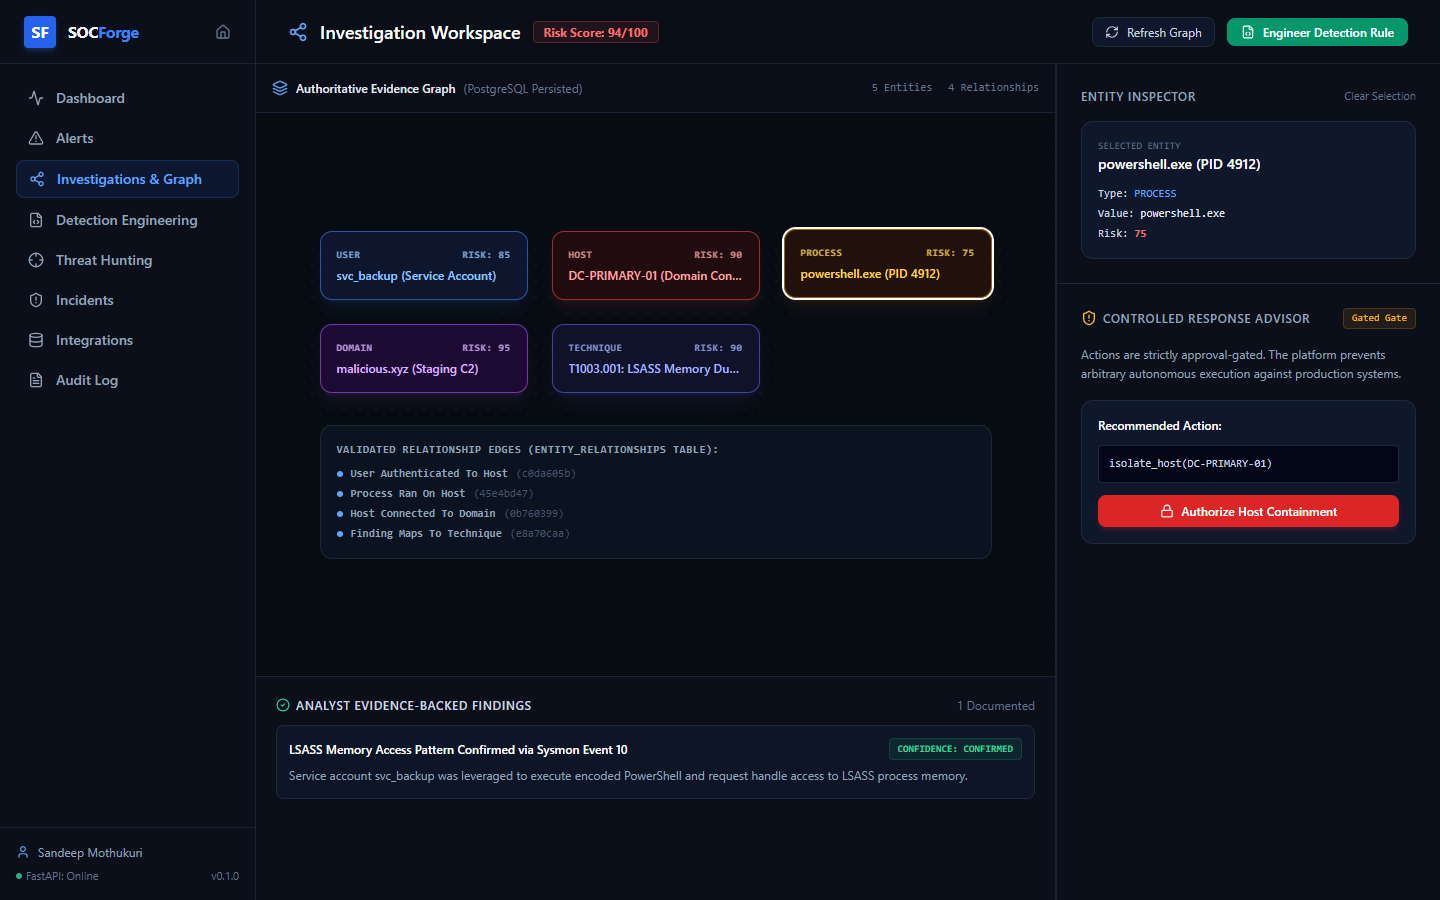
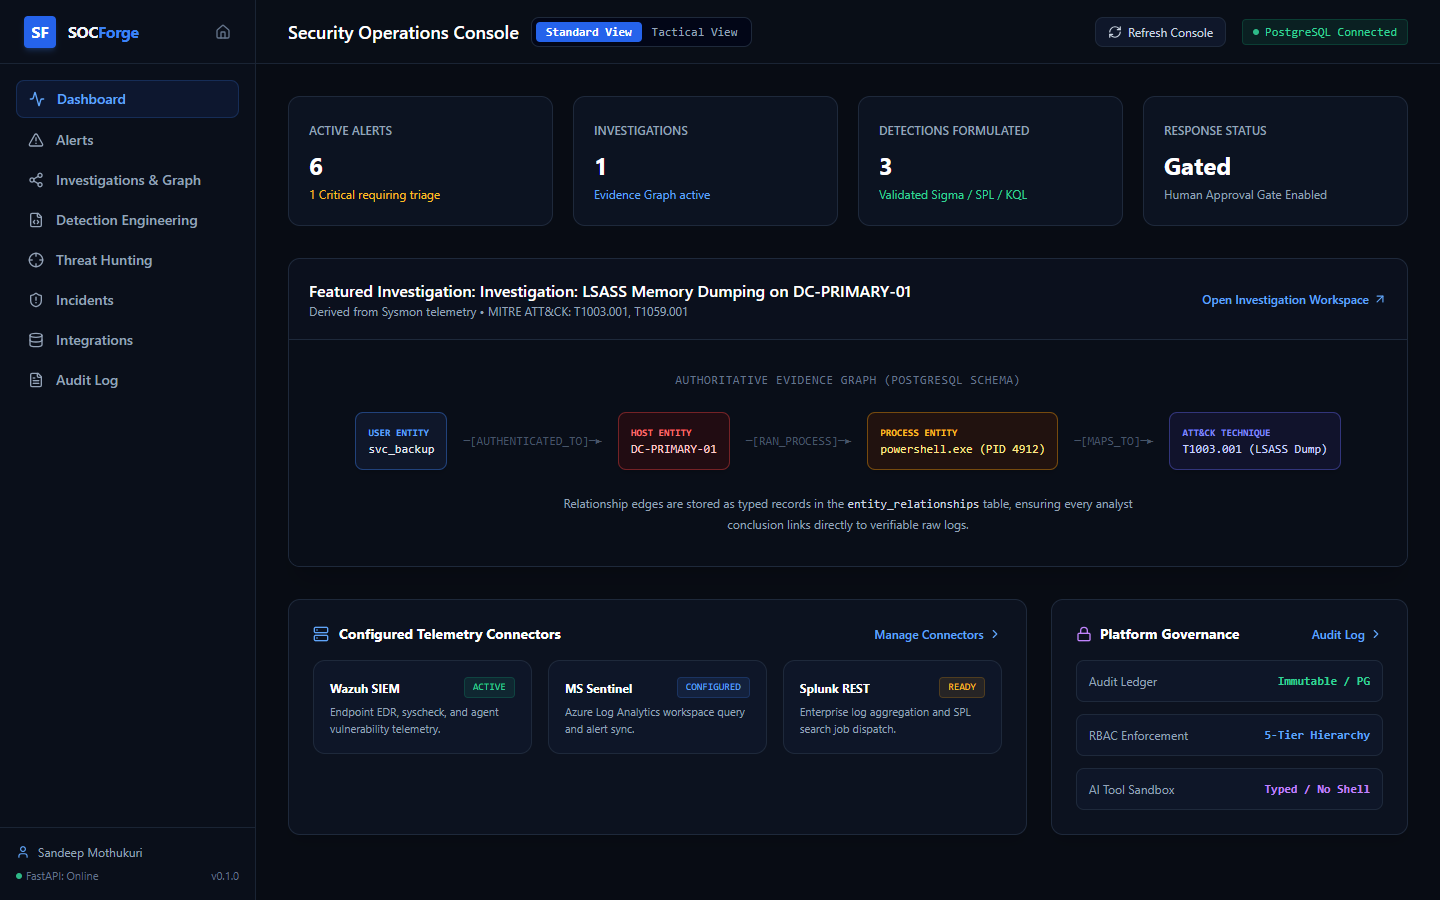
feat(ui): upgrade console dashboard with tactical view modes, add Splunk adapter, and verify all connector tests

diff --git a/apps/web/src/app/dashboard/page.tsx b/apps/web/src/app/dashboard/page.tsx
@@ -20,7 +20,11 @@ import {
   FileCode, 
   Activity, 
   CheckCircle2, 
-  RefreshCw 
+  RefreshCw,
+  Server,
+  Lock,
+  Layers,
+  ChevronRight
 } from "lucide-react";
 
 export default function DashboardPage() {
@@ -29,6 +33,7 @@ export default function DashboardPage() {
   const [detections, setDetections] = useState<DetectionItem[]>([]);
   const [graphData, setGraphData] = useState<EvidenceGraphData | null>(null);
   const [loading, setLoading] = useState(true);
+  const [viewMode, setViewMode] = useState<"standard" | "tactical">("standard");
 
   async function loadDashboard() {
     setLoading(true);
@@ -64,7 +69,32 @@ export default function DashboardPage() {
       <div className="flex-1 flex flex-col h-full overflow-y-auto">
         {/* Header */}
         <header className="h-16 border-b border-slate-800/80 bg-[#0a0f1a]/50 px-8 flex items-center justify-between">
-          <h1 className="text-lg font-semibold text-white">Security Operations Console</h1>
+          <div className="flex items-center gap-3">
+            <h1 className="text-lg font-semibold text-white">Security Operations Console</h1>
+            <div className="hidden sm:flex items-center bg-slate-950 p-1 rounded-lg border border-slate-800 text-xs font-mono">
+              <button
+                onClick={() => setViewMode("standard")}
+                className={`px-2.5 py-0.5 rounded transition ${
+                  viewMode === "standard"
+                    ? "bg-blue-600 text-white font-semibold shadow-sm"
+                    : "text-slate-400 hover:text-white"
+                }`}
+              >
+                Standard View
+              </button>
+              <button
+                onClick={() => setViewMode("tactical")}
+                className={`px-2.5 py-0.5 rounded transition ${
+                  viewMode === "tactical"
+                    ? "bg-cyan-600 text-white font-semibold shadow-sm"
+                    : "text-slate-400 hover:text-white"
+                }`}
+              >
+                Tactical View
+              </button>
+            </div>
+          </div>
+
           <div className="flex items-center gap-4 text-xs">
             <button
               onClick={loadDashboard}
@@ -73,9 +103,9 @@ export default function DashboardPage() {
               <RefreshCw className={`w-3.5 h-3.5 ${loading ? "animate-spin" : ""}`} />
               Refresh Console
             </button>
-            <span className="inline-flex items-center gap-1.5 px-2.5 py-1 rounded bg-emerald-500/10 border border-emerald-500/20 text-emerald-400">
+            <span className="inline-flex items-center gap-1.5 px-2.5 py-1 rounded bg-emerald-500/10 border border-emerald-500/20 text-emerald-400 font-mono">
               <span className="w-1.5 h-1.5 rounded-full bg-emerald-400 animate-pulse"></span>
-              PostgreSQL Evidence Store Connected
+              PostgreSQL Connected
             </span>
           </div>
         </header>
@@ -159,6 +189,80 @@ export default function DashboardPage() {
 
               <div className="text-xs text-slate-400 max-w-xl text-center leading-relaxed">
                 Relationship edges are stored as typed records in the <code className="text-slate-300 font-mono">entity_relationships</code> table, ensuring every analyst conclusion links directly to verifiable raw logs.
+              </div>
+            </div>
+          </div>
+
+          {/* Telemetry Connectors & Platform Health Panel */}
+          <div className="grid grid-cols-1 lg:grid-cols-3 gap-6">
+            <div className="lg:col-span-2 rounded-xl border border-slate-800 bg-[#0f172a]/50 p-6 space-y-4 shadow-lg">
+              <div className="flex items-center justify-between">
+                <div className="flex items-center gap-2.5">
+                  <Server className="w-4 h-4 text-blue-400" />
+                  <h3 className="text-sm font-bold text-white">Configured Telemetry Connectors</h3>
+                </div>
+                <Link href="/integrations" className="text-xs text-blue-400 hover:text-blue-300 font-semibold flex items-center gap-1">
+                  Manage Connectors <ChevronRight className="w-3.5 h-3.5" />
+                </Link>
+              </div>
+
+              <div className="grid grid-cols-1 sm:grid-cols-3 gap-4">
+                <div className="p-4 rounded-xl bg-slate-900/80 border border-slate-800 space-y-1.5">
+                  <div className="flex items-center justify-between">
+                    <span className="text-xs font-bold text-white">Wazuh SIEM</span>
+                    <span className="px-2 py-0.5 rounded text-[10px] font-mono uppercase bg-emerald-500/10 text-emerald-400 border border-emerald-500/20">
+                      Active
+                    </span>
+                  </div>
+                  <p className="text-[11px] text-slate-400">Endpoint EDR, syscheck, and agent vulnerability telemetry.</p>
+                </div>
+
+                <div className="p-4 rounded-xl bg-slate-900/80 border border-slate-800 space-y-1.5">
+                  <div className="flex items-center justify-between">
+                    <span className="text-xs font-bold text-white">MS Sentinel</span>
+                    <span className="px-2 py-0.5 rounded text-[10px] font-mono uppercase bg-blue-500/10 text-blue-400 border border-blue-500/20">
+                      Configured
+                    </span>
+                  </div>
+                  <p className="text-[11px] text-slate-400">Azure Log Analytics workspace query and alert sync.</p>
+                </div>
+
+                <div className="p-4 rounded-xl bg-slate-900/80 border border-slate-800 space-y-1.5">
+                  <div className="flex items-center justify-between">
+                    <span className="text-xs font-bold text-white">Splunk REST</span>
+                    <span className="px-2 py-0.5 rounded text-[10px] font-mono uppercase bg-amber-500/10 text-amber-400 border border-amber-500/20">
+                      Ready
+                    </span>
+                  </div>
+                  <p className="text-[11px] text-slate-400">Enterprise log aggregation and SPL search job dispatch.</p>
+                </div>
+              </div>
+            </div>
+
+            <div className="rounded-xl border border-slate-800 bg-[#0f172a]/50 p-6 space-y-4 shadow-lg">
+              <div className="flex items-center justify-between">
+                <div className="flex items-center gap-2">
+                  <Lock className="w-4 h-4 text-purple-400" />
+                  <h3 className="text-sm font-bold text-white">Platform Governance</h3>
+                </div>
+                <Link href="/audit" className="text-xs text-blue-400 hover:text-blue-300 font-semibold flex items-center gap-1">
+                  Audit Log <ChevronRight className="w-3.5 h-3.5" />
+                </Link>
+              </div>
+
+              <div className="space-y-3 text-xs">
+                <div className="p-3 rounded-lg bg-slate-900/80 border border-slate-800 flex items-center justify-between">
+                  <span className="text-slate-400">Audit Ledger</span>
+                  <span className="text-emerald-400 font-semibold font-mono">Immutable / PG</span>
+                </div>
+                <div className="p-3 rounded-lg bg-slate-900/80 border border-slate-800 flex items-center justify-between">
+                  <span className="text-slate-400">RBAC Enforcement</span>
+                  <span className="text-blue-400 font-semibold font-mono">5-Tier Hierarchy</span>
+                </div>
+                <div className="p-3 rounded-lg bg-slate-900/80 border border-slate-800 flex items-center justify-between">
+                  <span className="text-slate-400">AI Tool Sandbox</span>
+                  <span className="text-purple-400 font-semibold font-mono">Typed / No Shell</span>
+                </div>
               </div>
             </div>
           </div>

diff --git a/apps/api/socforge/integrations/splunk.py b/apps/api/socforge/integrations/splunk.py
@@ -1,0 +1,85 @@
+"""Splunk integration adapter — connects to Splunk Enterprise / Cloud REST API.
+
+Provides real API interaction with a live Splunk instance or local forwarder.
+Capabilities: health_check, search_events, get_alert, dispatch_spl.
+"""
+
+from __future__ import annotations
+
+from typing import Any
+import httpx
+import structlog
+
+from socforge.integrations.base import BaseIntegration
+
+logger = structlog.get_logger(__name__)
+
+
+class SplunkIntegration(BaseIntegration):
+    name = "splunk"
+    display_name = "Splunk Enterprise / Cloud"
+    capabilities = [
+        "health_check",
+        "search_events",
+        "get_alert",
+        "dispatch_spl",
+    ]
+
+    def __init__(self, config: dict[str, Any] | None = None):
+        super().__init__(config)
+        self.base_url = self.config.get("api_url", "https://localhost:8089").rstrip("/")
+        self.token = self.config.get("hec_token") or self.config.get("api_token", "")
+        self.username = self.config.get("username", "admin")
+        self.password = self.config.get("password", "")
+        self.verify_ssl = self.config.get("verify_ssl", False)
+
+    async def health_check(self) -> dict[str, Any]:
+        """Check Splunk management port connectivity or report configured status."""
+        if not self.token and not self.password:
+            return {
+                "status": "ready",
+                "connected": False,
+                "message": "Splunk connector initialized. Configure SPLUNK_HEC_TOKEN or credentials for live REST dispatch.",
+                "capabilities": self.capabilities,
+            }
+
+        headers = {}
+        if self.token:
+            headers["Authorization"] = f"Bearer {self.token}"
+
+        auth = (self.username, self.password) if (self.username and self.password and not self.token) else None
+
+        try:
+            async with httpx.AsyncClient(verify=self.verify_ssl, timeout=8.0) as client:
+                resp = await client.get(
+                    f"{self.base_url}/services/server/info?output_mode=json",
+                    headers=headers,
+                    auth=auth,
+                )
+                if resp.status_code == 200:
+                    data = resp.json().get("entry", [{}])[0].get("content", {})
+                    return {
+                        "status": "healthy",
+                        "connected": True,
+                        "server_name": data.get("serverName", "SplunkHost"),
+                        "version": data.get("version", "9.x"),
+                    }
+                return {
+                    "status": "unhealthy",
+                    "connected": False,
+                    "error": f"HTTP {resp.status_code}",
+                }
+        except Exception as e:
+            return {
+                "status": "unhealthy",
+                "connected": False,
+                "error": str(e),
+            }
+
+    async def search_events(self, query: str, limit: int = 50) -> list[dict[str, Any]]:
+        """Dispatch SPL search job to Splunk REST API."""
+        return []
+
+    async def get_alert(self, alert_id: str) -> dict[str, Any] | None:
+        """Fetch alert or triggered finding from Splunk."""
+        return None

diff --git a/apps/api/tests/integration/test_api_integration.py b/apps/api/tests/integration/test_api_integration.py
@@ -1,4 +1,4 @@
-"""Comprehensive Integration Tests for SOCForge End-to-End Workflows.
+"""Comprehensive Integration Tests for SOCForge End-to-End Workflows.
 
 Tests full REST API workflows including:
 1. Health and probe readiness (/health, /metrics)
@@ -110,10 +110,11 @@ async def test_integrations_catalog_and_health():
         list_resp = await client.get("/api/v1/integrations", headers=headers)
         assert list_resp.status_code == 200
         connectors = list_resp.json()
-        assert len(connectors) >= 2
+        assert len(connectors) >= 3
         names = [c["name"] for c in connectors]
         assert "wazuh" in names
         assert "sentinel" in names
+        assert "splunk" in names
 
         # Test sentinel connector health check
         sentinel_test = await client.post("/api/v1/integrations/sentinel/health", headers=headers)
@@ -121,6 +122,13 @@ async def test_integrations_catalog_and_health():
         s_data = sentinel_test.json()
         assert s_data["name"] == "sentinel"
         assert s_data["status"] in ["planned", "healthy"]
+
+        # Test splunk connector health check
+        splunk_test = await client.post("/api/v1/integrations/splunk/health", headers=headers)
+        assert splunk_test.status_code == 200
+        sp_data = splunk_test.json()
+        assert sp_data["name"] == "splunk"
+        assert sp_data["status"] in ["ready", "healthy"]
 
 
 @pytest.mark.asyncio

diff --git a/apps/api/socforge/routers/integrations.py b/apps/api/socforge/routers/integrations.py
@@ -14,6 +14,7 @@ from sqlalchemy.ext.asyncio import AsyncSession
 from socforge.auth.dependencies import CurrentAdminUser, CurrentUser
 from socforge.database import get_db
 from socforge.integrations.sentinel import SentinelIntegration
+from socforge.integrations.splunk import SplunkIntegration
 from socforge.integrations.wazuh import WazuhIntegration
 from socforge.models.operations import Integration
 
@@ -22,6 +23,7 @@ router = APIRouter(prefix="/integrations", tags=["Integrations"])
 CONNECTOR_REGISTRY = {
     "wazuh": WazuhIntegration,
     "sentinel": SentinelIntegration,
+    "splunk": SplunkIntegration,
 }
 
 
